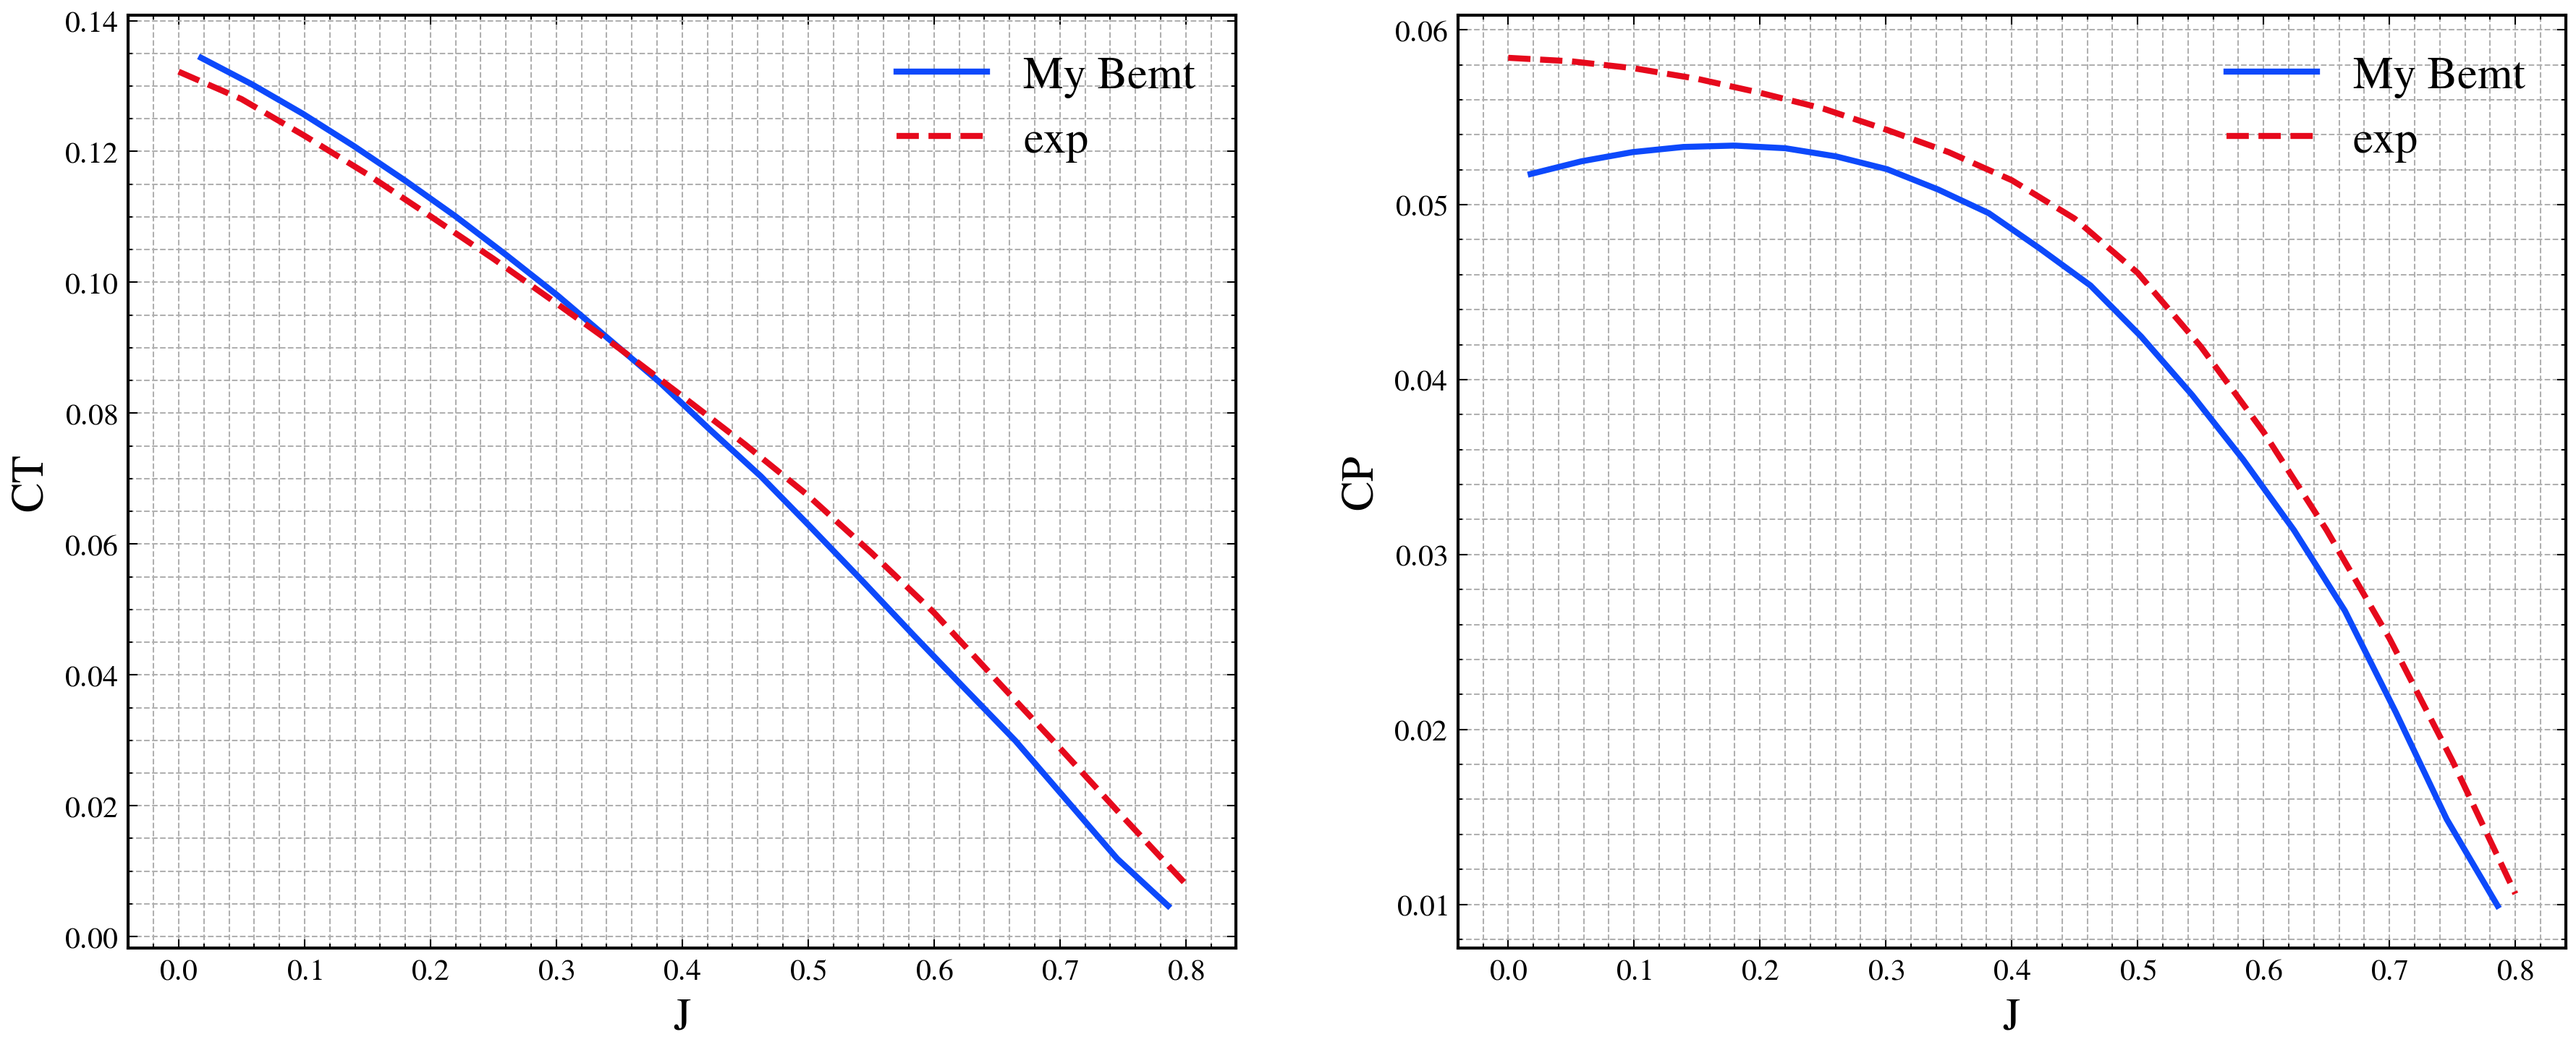
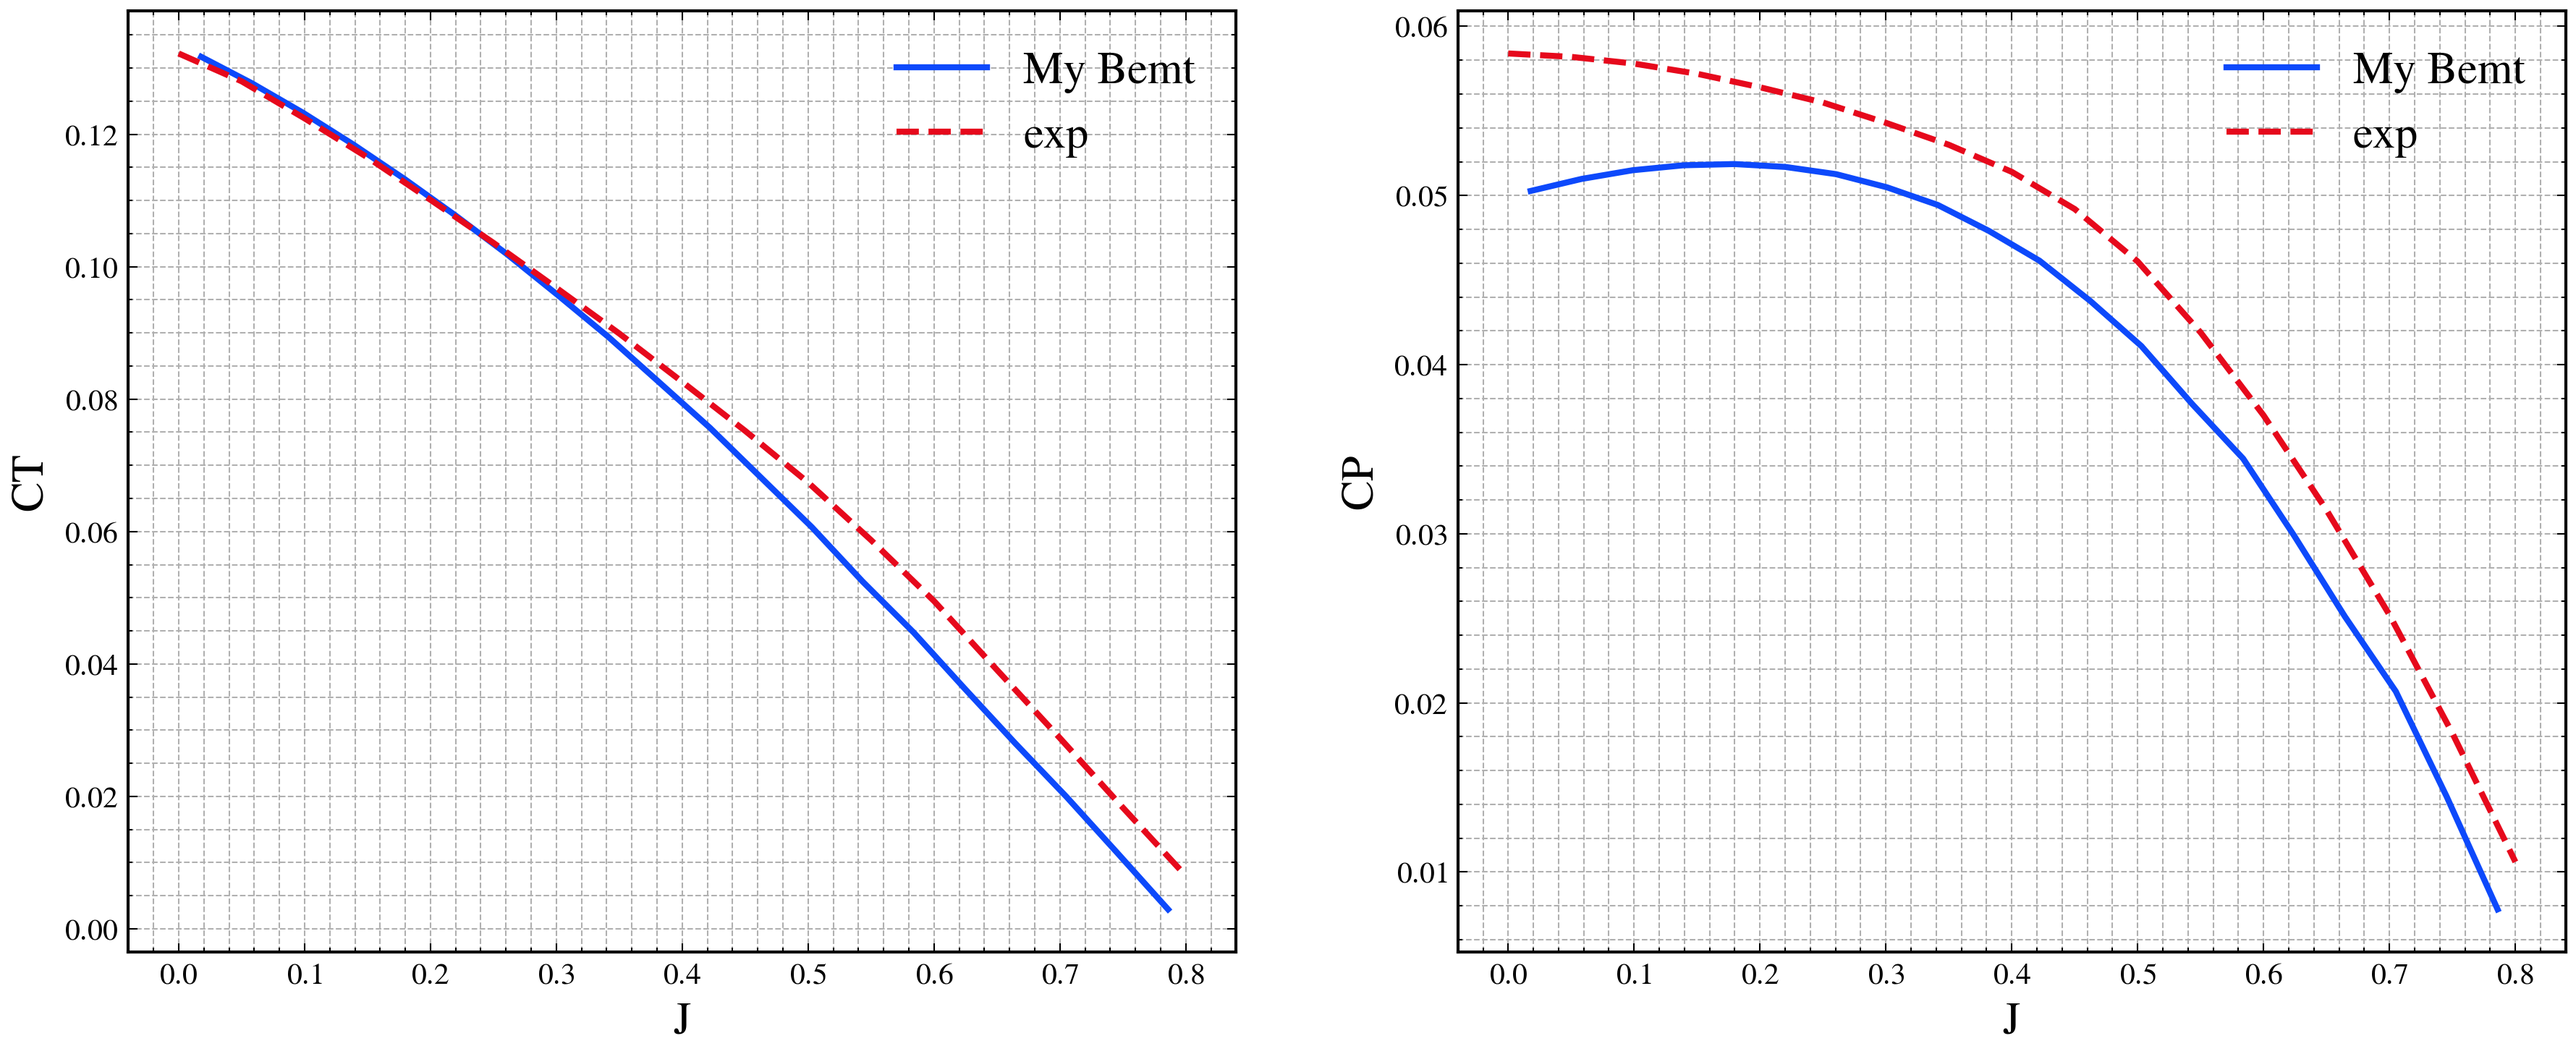
update test10

diff --git a/BEM/test10.py b/BEM/test10.py
@@ -1,14 +1,16 @@
 import numpy as np
 from abc import ABC, abstractmethod
+from typing import Union
 
 # from scipy.optimize.elementwise import find_root
-from scipy.optimize import root_scalar, curve_fit
-from scipy.interpolate import interp1d, BSpline
+from scipy.optimize import root_scalar
+from scipy.interpolate import interp1d
 from dataclasses import dataclass
 import re
 import io
 from NumOpt.airfoil.bspline import Bspline
 from NumOpt import Opti, cas
+import matplotlib.pyplot as plt
 
 # import aerosandbox.numpy as anp
 # import aerosandbox as asb
@@ -39,18 +41,27 @@ class Oper:
     sos: float = 340.0
 
 
-def find_bracket(f, args, xmin, xmax, n, x_pre=None, scan_window=8, backsearch=False):
+def find_bracket(f, args, xmin, xmax, n, x_pre=None, scan_window=10, backsearch=False):
     if x_pre is not None:
         scan_window = np.deg2rad(scan_window)
-        xxxmin = max(xmin, x_pre - scan_window)
-        xxxmax = min(xmax, x_pre + scan_window)
-        flag, bracket = find_bracket(f=f, args=args, n=10, xmin=x_pre, xmax=xxxmax, backsearch=False)
-        if flag:
-            return flag, bracket
-        else:
-            flag, bracket = find_bracket(f=f, args=args, n=10, xmin=xxxmin, xmax=x_pre, backsearch=True)
+        if x_pre<xmin:
+            flag, bracket = find_bracket(f=f, args=args, n=10, xmin=xmin, xmax=xmin+scan_window, x_pre=None, backsearch=False)
             if flag:
                 return flag, bracket
+        elif x_pre>xmax:
+            flag, bracket = find_bracket(f=f, args=args, n=10, xmin=xmax-scan_window, xmax=xmax, x_pre=None, backsearch=True)
+            if flag:
+                return flag, bracket
+        else:
+            window = (max(x_pre, xmin), min(x_pre + scan_window, xmax))
+            flag, bracket = find_bracket(f=f, args=args, n=10, xmin=window[0], xmax=window[1], x_pre=None, backsearch=False)
+            if flag:
+                return flag, bracket
+            else:
+                window = (max(x_pre - scan_window, xmin), min(x_pre, xmax))
+                flag, bracket = find_bracket(f=f, args=args, n=10, xmin=window[0], xmax=window[1], x_pre=None, backsearch=True)
+                if flag:
+                    return flag, bracket
 
     x_list = np.linspace(xmin, xmax, n)
     if backsearch:
@@ -247,6 +258,12 @@ class CombineAirfoil:
 #         curve = self._bspline(u)
 #         return curve
 class BsplineDistribution(Bspline):
+    def __call__(self, x):
+        return self.get_y_from_x(x)
+
+    def get_xy_from_u(self, u):
+        return super().__call__(u)
+
     def get_u_from_x(self, x):
         opti = Opti()
         u = opti.variable(init_guess=x / (np.max(x) - np.min(x)), lower_bound=0.0, upper_bound=1.0)
@@ -261,56 +278,77 @@ class BsplineDistribution(Bspline):
         return sol(u)
 
     @staticmethod
-    def fit(data, nct, degree=3):
+    def fit(data, nct, degree=3, draw=False):
         opti = Opti()
 
         xdata = data[:, 0]
         ydata = data[:, 1]
-        
-        cts_init=np.empty((nct,2))
-        cts_init[:,0]=np.linspace(xdata[0],xdata[-1],nct)
-        cts_init[:,1]=np.max(ydata)
-        
-        cts_x=opti.variable(init_guess=cts_init[:,0])
-        cts_y=opti.variable(init_guess=cts_init[:,1])
-        cts=cas.hcat((cts_x,cts_y))
-        u=opti.variable(init_guess=np.linspace(0,1,data.shape[0]),lower_bound=0.0,upper_bound=1.0)
 
+        cts_init = np.empty((nct, 2))
+        cts_init[:, 0] = np.linspace(xdata[0], xdata[-1], nct)
+        cts_init[:, 1] = np.max(ydata)
 
-        sp=BsplineDistribution(ctrlpts=cts,degree=degree)
-        curve=sp(u)
+        cts_x = opti.variable(init_guess=cts_init[:, 0])
+        cts_y = opti.variable(init_guess=cts_init[:, 1])
+        cts = cas.hcat((cts_x, cts_y))
+        u = opti.variable(init_guess=np.linspace(0, 1, data.shape[0]), lower_bound=0.0, upper_bound=1.0)
 
-        opti.subject_to([
-            cts_x==np.linspace(xdata[0],xdata[-1],nct),
-            cts_y[0,0]==ydata[0],
-            cts_y[-1,0]==ydata[-1],
-            u[0,0]==0.0,
-            u[1,0]==1.0
-        ])
-        
-        dist=(curve-data)**2
-        residual=cas.sum(dist)
+        sp = BsplineDistribution(ctrlpts=cts, degree=degree)
+        curve = sp.get_xy_from_u(u)
+
+        opti.subject_to([cts_x == np.linspace(xdata[0], xdata[-1], nct), cts_y[0, 0] == ydata[0], cts_y[-1, 0] == ydata[-1], u[0, 0] == 0.0, u[1, 0] == 1.0])
+
+        dist = (curve - data) ** 2
+        residual = cas.sum(dist)
 
         opti.minimize(residual)
 
-        opti.ipopt_solver()
-        sol=opti.solve()
-        cts=sol(cts)
+        opti.ipopt_solver(verbose=False)
+        sol = opti.solve()
+        cts = sol(cts)
+
+        # if draw:
+        #     curve = BsplineDistribution(ctrlpts=cts, degree=degree).get_xy_from_u(np.linspace(0, 1, 100))
+        #     with plt.style.context(["science", "nature", "high-vis", "no-latex"]):
+        #         with plt.rc_context(
+        #             {
+        #                 "axes.linewidth": 1,
+        #                 "lines.linewidth": 2,
+        #                 "axes.labelsize": 15,
+        #                 "xtick.labelsize": 10,
+        #                 "ytick.labelsize": 10,
+        #                 "axes.grid": True,
+        #                 "axes.grid.which": "both",
+        #                 "grid.linestyle": "--",
+        #                 # "figure.subplot.wspace":0.5
+        #             }
+        #         ):
+        #             fig = plt.figure(figsize=(6, 5))
+        #             ax = fig.add_subplot(111)
+        #             ax.plot(curve[:, 0], curve[:, 1], color="magenta", label="interp")
+        #             ax.plot(cts[:, 0], cts[:, 1], "--bo", label="cts", markersize=6, markerfacecolor="b", markeredgecolor="b")
+        #             ax.plot(data[:, 0], data[:, 1], "go", label="data", markersize=6)
+        #             ax.legend(fontsize=15)
+        #             plt.show()
 
         return BsplineDistribution(ctrlpts=cts, degree=degree)
 
-    def get_y(self, x):
+    def get_y_from_x(self, x):
         opti = Opti()
-        u = opti.variable(init_guess=np.linspace(0, 1, len(x)), lower_bound=0, upper_bound=1)
+        u = opti.variable(init_guess=np.linspace(0, 1, x.shape[0]), lower_bound=0, upper_bound=1)
 
-        curve = self.__call__(u)
+        curve = self.get_xy_from_u(u)
 
-        opti.subject_to([u[0, 0] == 0.0, u[-1, 0] == 1.0, cas.diff(u) > 0.0, curve[:, 0] == x])
+        opti.subject_to(
+            [
+                curve[:, 0] == x,
+            ]
+        )
 
-        opti.ipopt_solver()
+        opti.ipopt_solver(verbose=False)
         sol = opti.solve()
         curve = sol(curve)
-        return curve
+        return curve[:, 1]
 
 
 class Section:
@@ -345,7 +383,7 @@ class Section:
         Re = oper.rho * W0 * self.b / oper.mu
         Mach = W0 / oper.sos
 
-        CL, CD = self.af(alpha_deg, Re, Mach)
+        CL, CD = self.af(Alpha=alpha_deg, Reynold=Re, Mach=Mach, Radius=self.r)
 
         Cn = CL * phi_cos - CD * phi_sin
         Ct = CL * phi_sin + CD * phi_cos
@@ -496,14 +534,65 @@ class Section:
 
 
 class Blade:
-    def __init__(self, Rtip, Rhub, Nb, chord_distribution, twist_distribution, pitch):
+    def __init__(
+        self,
+        Rhub,
+        Rtip,
+        Nb: int,
+        chord_distribution: BsplineDistribution,
+        twist_distribution: BsplineDistribution,
+        airfoilmodel: CombineAirfoil,
+        pitch: float,
+        radius_resolutuon: Union[np.ndarray, int] = 10,
+    ):
         self.Rtip = Rtip
         self.Rhub = Rhub
         self.Nb = Nb
-        self.sections = sections
+        self.chord_distribution = chord_distribution
+        self.twist_distribution = twist_distribution
+        self.airfoilmodel = airfoilmodel
+        self.pitch = pitch
 
-        for i in sections:
-            i.set_rotor_parameters(self.Nb, self.Rhub, self.Rtip)
+        if isinstance(radius_resolutuon, int):
+            self.r_list = np.linspace(self.Rhub, self.Rtip, radius_resolutuon)
+        elif isinstance(radius_resolutuon, np.ndarray):
+            self.r_list = np.clip(radius_resolutuon, self.Rhub, self.Rtip)
+        else:
+            raise ValueError("the `radius_resolutuon` must be `np.ndarray` or `int`")
+        self.chord_list = self.chord_distribution(self.r_list)
+        self.twist_list = self.twist_distribution(self.r_list)
+        self.nr = self.r_list.shape[0]
+
+        self.sections = []
+        for i in range(self.nr):
+            sec = Section(af=self.airfoilmodel, theta=self.twist_list[i] + pitch, r=self.r_list[i], b=self.chord_list[i])
+            sec.set_rotor_parameters(Nb=self.Nb, Rhub=self.Rhub, Rtip=self.Rtip)
+            self.sections.append(sec)
+
+        # with plt.style.context(["science", "nature", "high-vis", "no-latex"]):
+        #     with plt.rc_context(
+        #         {
+        #             "axes.linewidth": 1,
+        #             "lines.linewidth": 2,
+        #             "axes.labelsize": 15,
+        #             "xtick.labelsize": 10,
+        #             "ytick.labelsize": 10,
+        #             "axes.grid": True,
+        #             "axes.grid.which": "both",
+        #             "grid.linestyle": "--",
+        #             # "figure.subplot.wspace":0.5
+        #         }
+        #     ):
+        #         fig = plt.figure(figsize=(6, 5))
+        #         ax = fig.add_subplot(111)
+        #         ax.plot(self.r_list, self.chord_list, label="chord")
+        #         ax.set_ylabel("chord")
+        #         ax.set_xlabel("r")
+        #         ax = ax.twinx()
+        #         ax.plot(self.r_list, self.twist_list, label="twist")
+        #         ax.set_ylabel("twist")
+        #         plt.legend()
+        #         plt.show()
 
     def solve(self, V0, omega, rho=1.225, mu=1.81e-5, sos=340.0):
         rs = []
@@ -511,6 +600,7 @@ class Blade:
         dFs = []
         dQs = []
         phi_pre = None
+
         for i in self.sections:
             sec_aero = i.find_root(V0=V0, omega=omega, rho=rho, mu=mu, sos=sos, phi_pre=phi_pre)
             dTs.append(np.array(sec_aero.Tn))
@@ -567,12 +657,22 @@ def test02():
     rs = np.array([Rhub, 0.525, 0.675, 0.825, 0.975, 1.125, 1.275, 1.425, Rtip])
     chords = np.array([0.18, 0.18, 0.225, 0.225, 0.21, 0.1875, 0.1425, 0.12, 0.12])
     pitchs = np.deg2rad(np.array([17.0, 17.0, 17.0, 17.0, 17.0, 17.0, 17.0, 17.0, 17.0]))
+
+    # chord_dist = BsplineDistribution.fit(data=np.vstack((rs, chords)).T, nct=6, draw=False)
+    chord_dist = interp1d(x=rs, y=chords, kind="slinear")
+    twist_dist = BsplineDistribution.fit(data=np.vstack((rs, pitchs)).T, nct=6, draw=False)
+
+    af_list = [FileAirfoil("./pyBEMT/pybemt/airfoils/CLARKY.dat") for _ in range(rs.shape[0])]
+    blade = Blade(
+        Rhub=Rhub, Rtip=Rtip, Nb=Nb, chord_distribution=chord_dist, twist_distribution=twist_dist, pitch=0.0, airfoilmodel=CombineAirfoil(af_list=af_list, r_list=rs)
+    )
+
     # rs = np.array([ 0.525, 0.675, 0.825, 0.975, 1.125, 1.275, 1.425])
     # chords = np.array([0.18, 0.225, 0.225, 0.21, 0.1875, 0.1425, 0.12])
     # pitchs = np.deg2rad(np.array([17.0, 17.0, 17.0, 17.0, 17.0, 17.0, 17.0]))
 
-    secs = [Section(af=FileAirfoil("./pyBEMT/pybemt/airfoils/CLARKY.dat"), theta=theta, r=r, b=b) for theta, r, b in zip(pitchs, rs, chords)]
-    blade = Blade(Rhub=Rhub, Rtip=Rtip, Nb=Nb, sections=secs)
+    # secs = [Section(af=FileAirfoil("./pyBEMT/pybemt/airfoils/CLARKY.dat"), theta=theta, r=r, b=b) for theta, r, b in zip(pitchs, rs, chords)]
+    # blade = Blade(Rhub=Rhub, Rtip=Rtip, Nb=Nb, sections=secs)
 
     # blade=Blade(Rhub=Rhub,Rtip=Rtip,Nb=Nb,chord_distribution,twist_distribution,pitch)
 
@@ -915,7 +1015,7 @@ def test06():
 
     sp = BsplineDistribution.fit(data=data, nct=10, degree=3)
     u = np.linspace(0, 1, 100)
-    curve = sp(u)
+    curve = sp.get_xy_from_u(u)
 
     with plt.style.context(["science", "nature", "high-vis", "no-latex"]):
         with plt.rc_context(
@@ -942,8 +1042,8 @@ def test06():
 
 if __name__ == "__main__":
     # test01()
-    # test02()
+    test02()
     # test03()
     # test04()
     # test05()
-    test06()
+    # test06()
